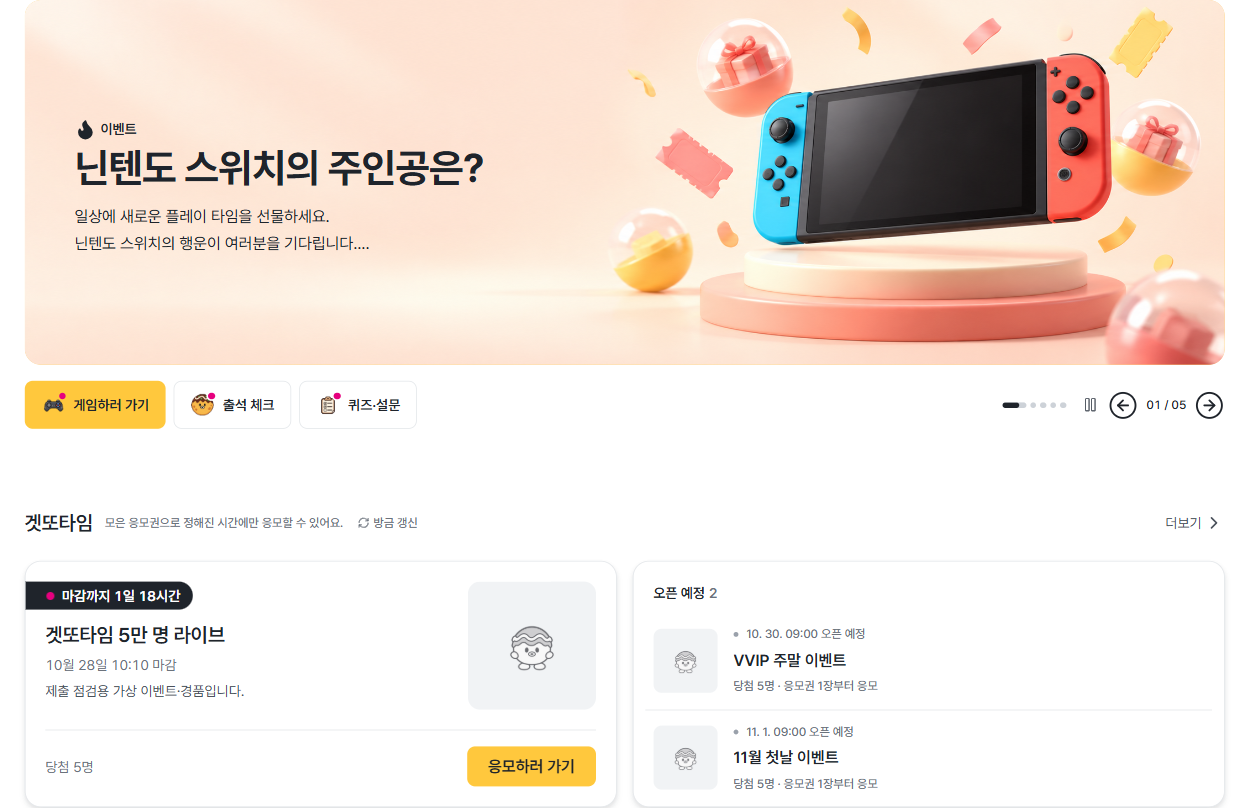
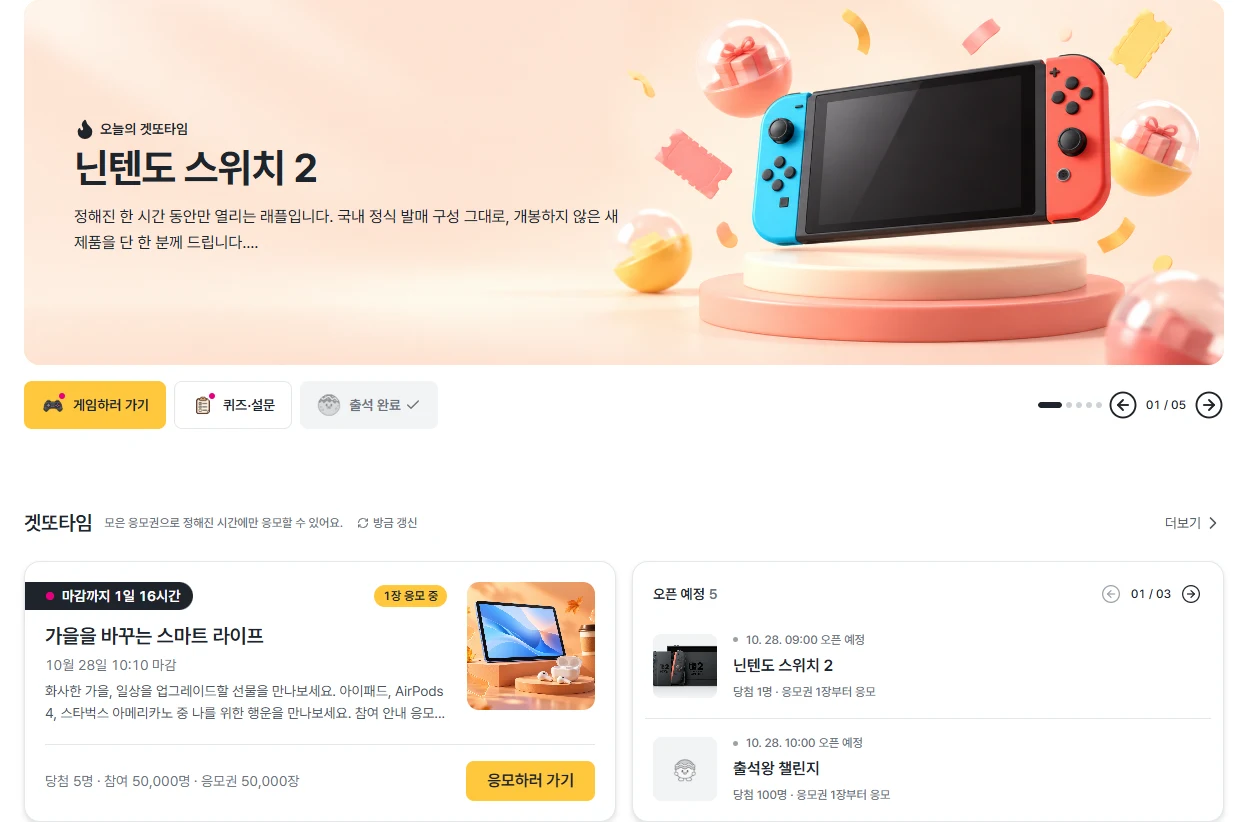
docs: 리드미 배너와 서비스 화면 캡처 갱신 (GD-362)

diff --git a/docs/assets/readme/README.md b/docs/assets/readme/README.md
@@ -1,23 +1,25 @@
-# README 화면 이미지
+# README 배너와 화면 이미지
 
-[프로젝트 README](../../../README.md)에 사용하는 실제 배포 화면입니다.
-별도 목업이나 이미지 생성 없이 브라우저에서 본문 요소를 캡처했습니다.
+[프로젝트 README](../../../README.md) 상단의 `getddo-banner.png`는 사용자가 제공한 픽셀 아트 이미지 원본입니다. 로고와 마스코트가 있는 가로형 배너로 사용합니다.
+
+서비스 화면 5장은 실제 배포 화면을 다시 촬영했습니다. 별도 목업이나 이미지 생성 없이 이미지 로딩을 확인한 뒤 브라우저의 본문 영역을 캡처했습니다.
 
 - 촬영일: 2026-10-26 KST
 - 배포 주소: https://getddo-fe.vercel.app
-- 관측한 엔트리 청크: `index-6n9HKfEc.js`
-- 형식: WebP, CSS 픽셀 기준
+- 관측한 엔트리 청크: `index-Bq3CWmJj.js`
+- 형식: 배너는 PNG 원본, 화면 캡처는 WebP·CSS 픽셀 기준
 - 데이터: 배포 환경의 가상 사용자·이벤트·보상 데이터
 - 작업 범위: 화면 조회와 시연 계정 선택만 수행했습니다. 응모·출석·제출·추첨·관리자 데이터 변경은 수행하지 않았습니다.
 - 공개 범위: 계정 선택 화면·헤더 계정 메뉴·관리자 사용자 명단을 제외했습니다. 화면의 본문 내용을 합성하거나 조회 실패를 정상 결과로 교체하지 않았습니다.
 
-| 파일                                             | 경로                    | 브라우저 크기 | 캡처 영역                                                     |
-| ------------------------------------------------ | ----------------------- | ------------- | ------------------------------------------------------------- |
-| [home-desktop.webp](home-desktop.webp)           | `/`                     | 1440×1000     | 이벤트 배너·바로가기·겟또타임을 포함한 상단 본문              |
-| [attendance-mobile.webp](attendance-mobile.webp) | `/missions`             | 390×844       | 출석 현황과 보상 버튼                                         |
-| [games-mobile.webp](games-mobile.webp)           | `/missions`             | 390×844       | 게임 카드 목록. 오른쪽 카드 일부 노출은 가로 스크롤 UI입니다. |
-| [raffle-mobile.webp](raffle-mobile.webp)         | `/time-raffle/:eventId` | 430×932       | 등급별 응모권 수량 선택 영역                                  |
-| [admin-desktop.webp](admin-desktop.webp)         | `/admin/events`         | 1440×1000     | 이벤트 검색·필터·상태별 목록                                  |
+| 파일                                             | 경로                    | 브라우저 크기 | 캡처 영역                                                                     |
+| ------------------------------------------------ | ----------------------- | ------------- | ----------------------------------------------------------------------------- |
+| [home-desktop.webp](home-desktop.webp)           | `/`                     | 1440×1000     | 닌텐도 배너·바로가기・상품 이미지가 표시된 겟또타임 본문                      |
+| [attendance-mobile.webp](attendance-mobile.webp) | `/missions`             | 390×844       | 월간 달력을 펼친 출석 현황과 연속 출석 보너스                                 |
+| [games-mobile.webp](games-mobile.webp)           | `/missions`             | 390×844       | 썸네일이 표시된 게임 카드 목록. 오른쪽 카드 일부 노출은 가로 스크롤 UI입니다. |
+| [raffle-mobile.webp](raffle-mobile.webp)         | `/time-raffle/:eventId` | 430×932       | 상품 이미지부터 등급별 응모권 수량 선택·버튼까지의 대표 카드                  |
+| [admin-desktop.webp](admin-desktop.webp)         | `/admin/events`         | 1440×1000     | 이벤트 검색·필터·상태별 목록                                                  |
 
 이미지의 일정·잔액·이벤트 수는 촬영 시점의 값입니다. 배포 데이터가 바뀌면 다시 캡처합니다.
+월간 달력 펼치기 외에 화면 내용을 변경하지 않았으며, 상품 이미지와 응모권 선택 영역이 한 화면 높이를 넘는 경우 본문 전체에서 해당 영역을 잘랐습니다. 따라서 캡처 높이는 브라우저 높이와 다를 수 있습니다.
 관리자 대시보드 집계 조회 실패는 소개 이미지에 사용하지 않았으며 [연동 현황](../../backend-integration-status.md)에 별도 관측으로 기록했습니다.
